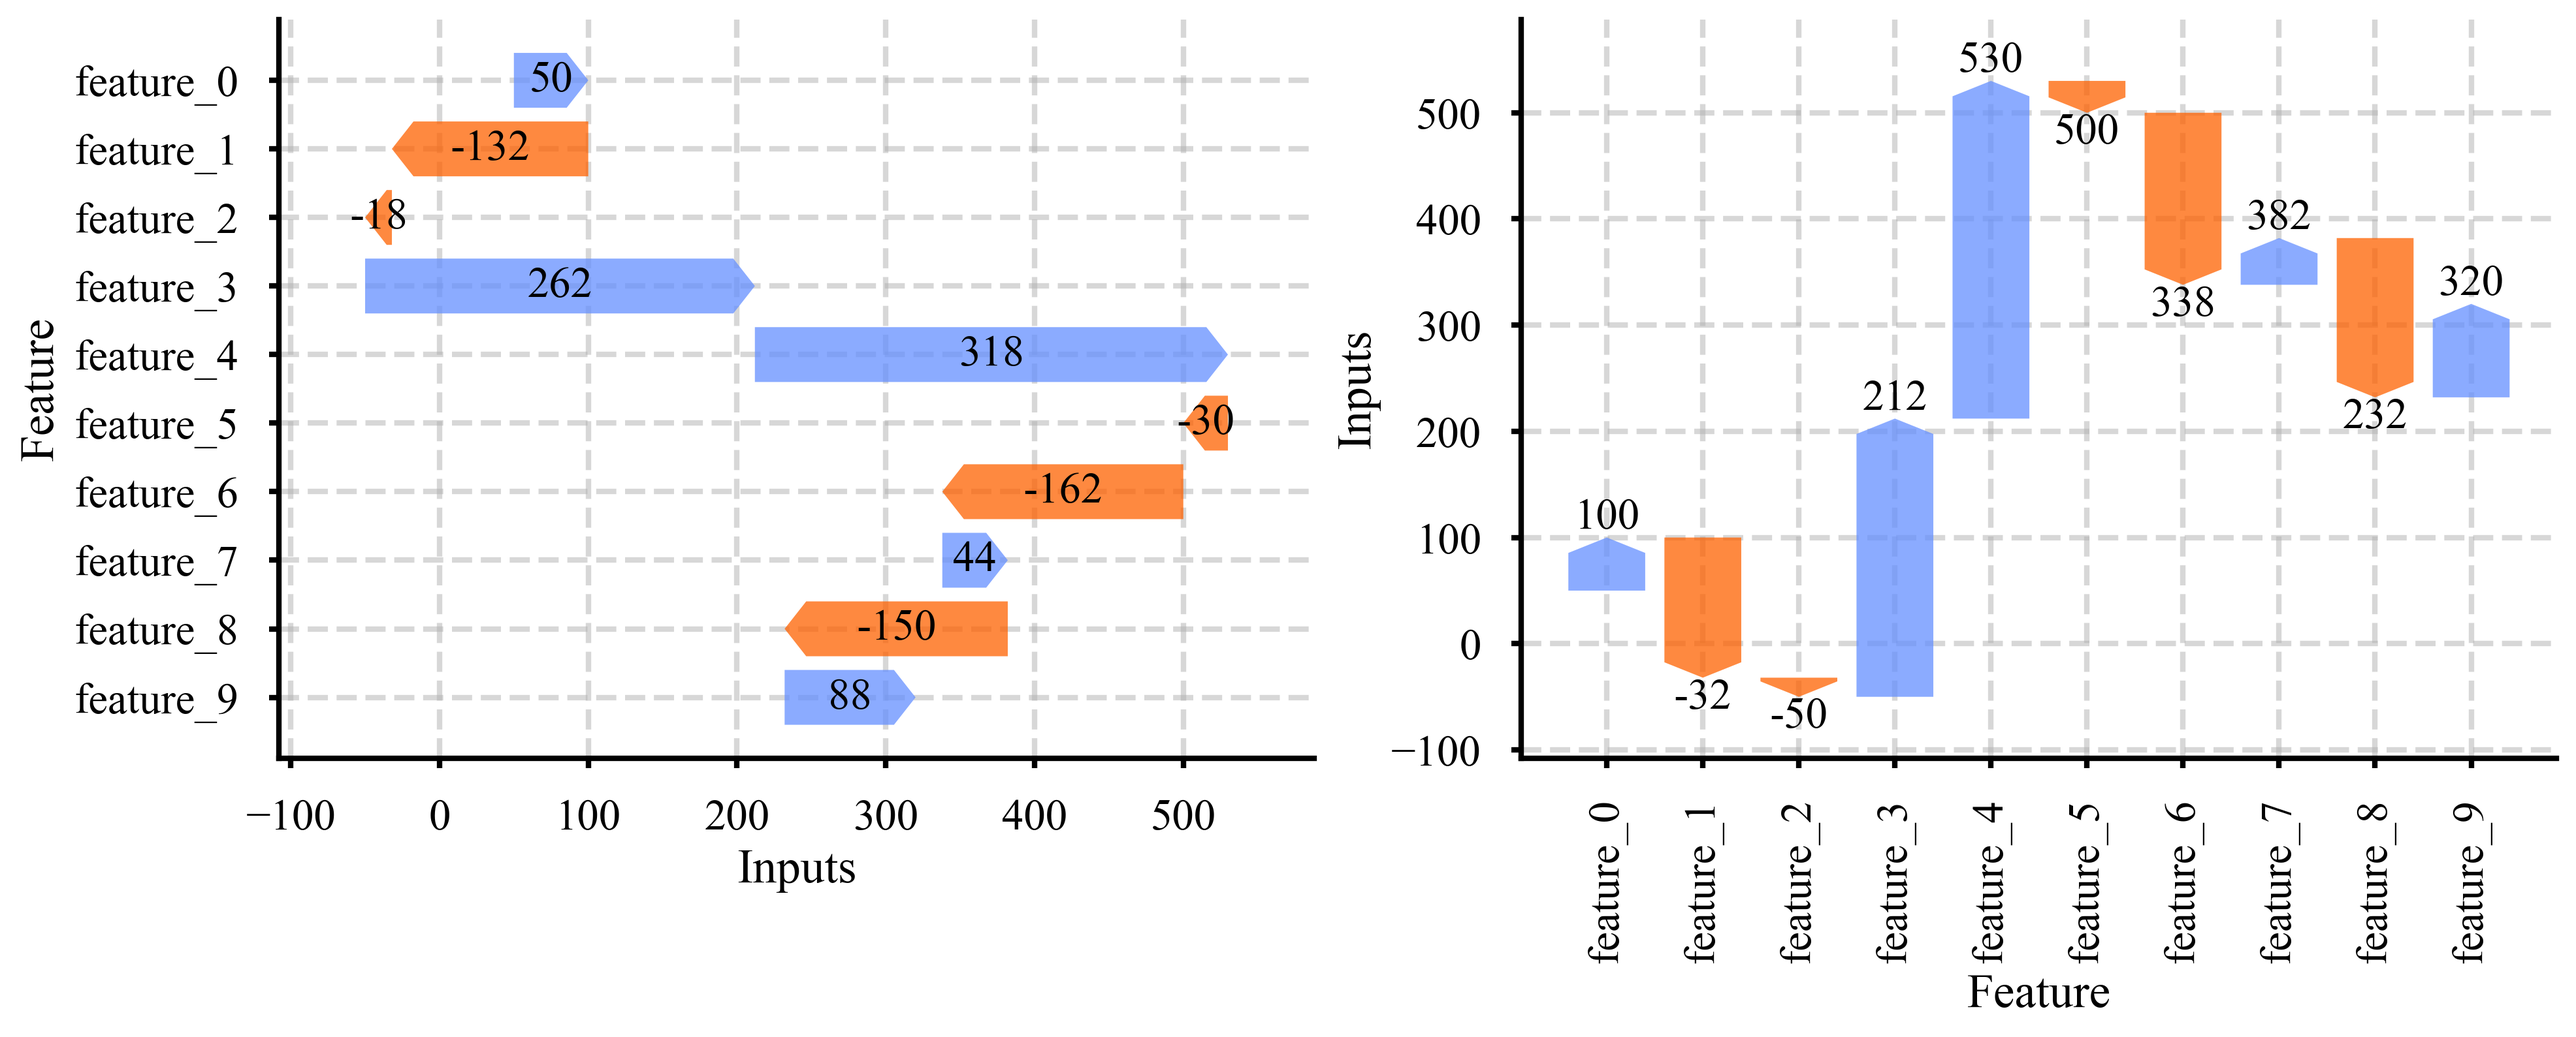
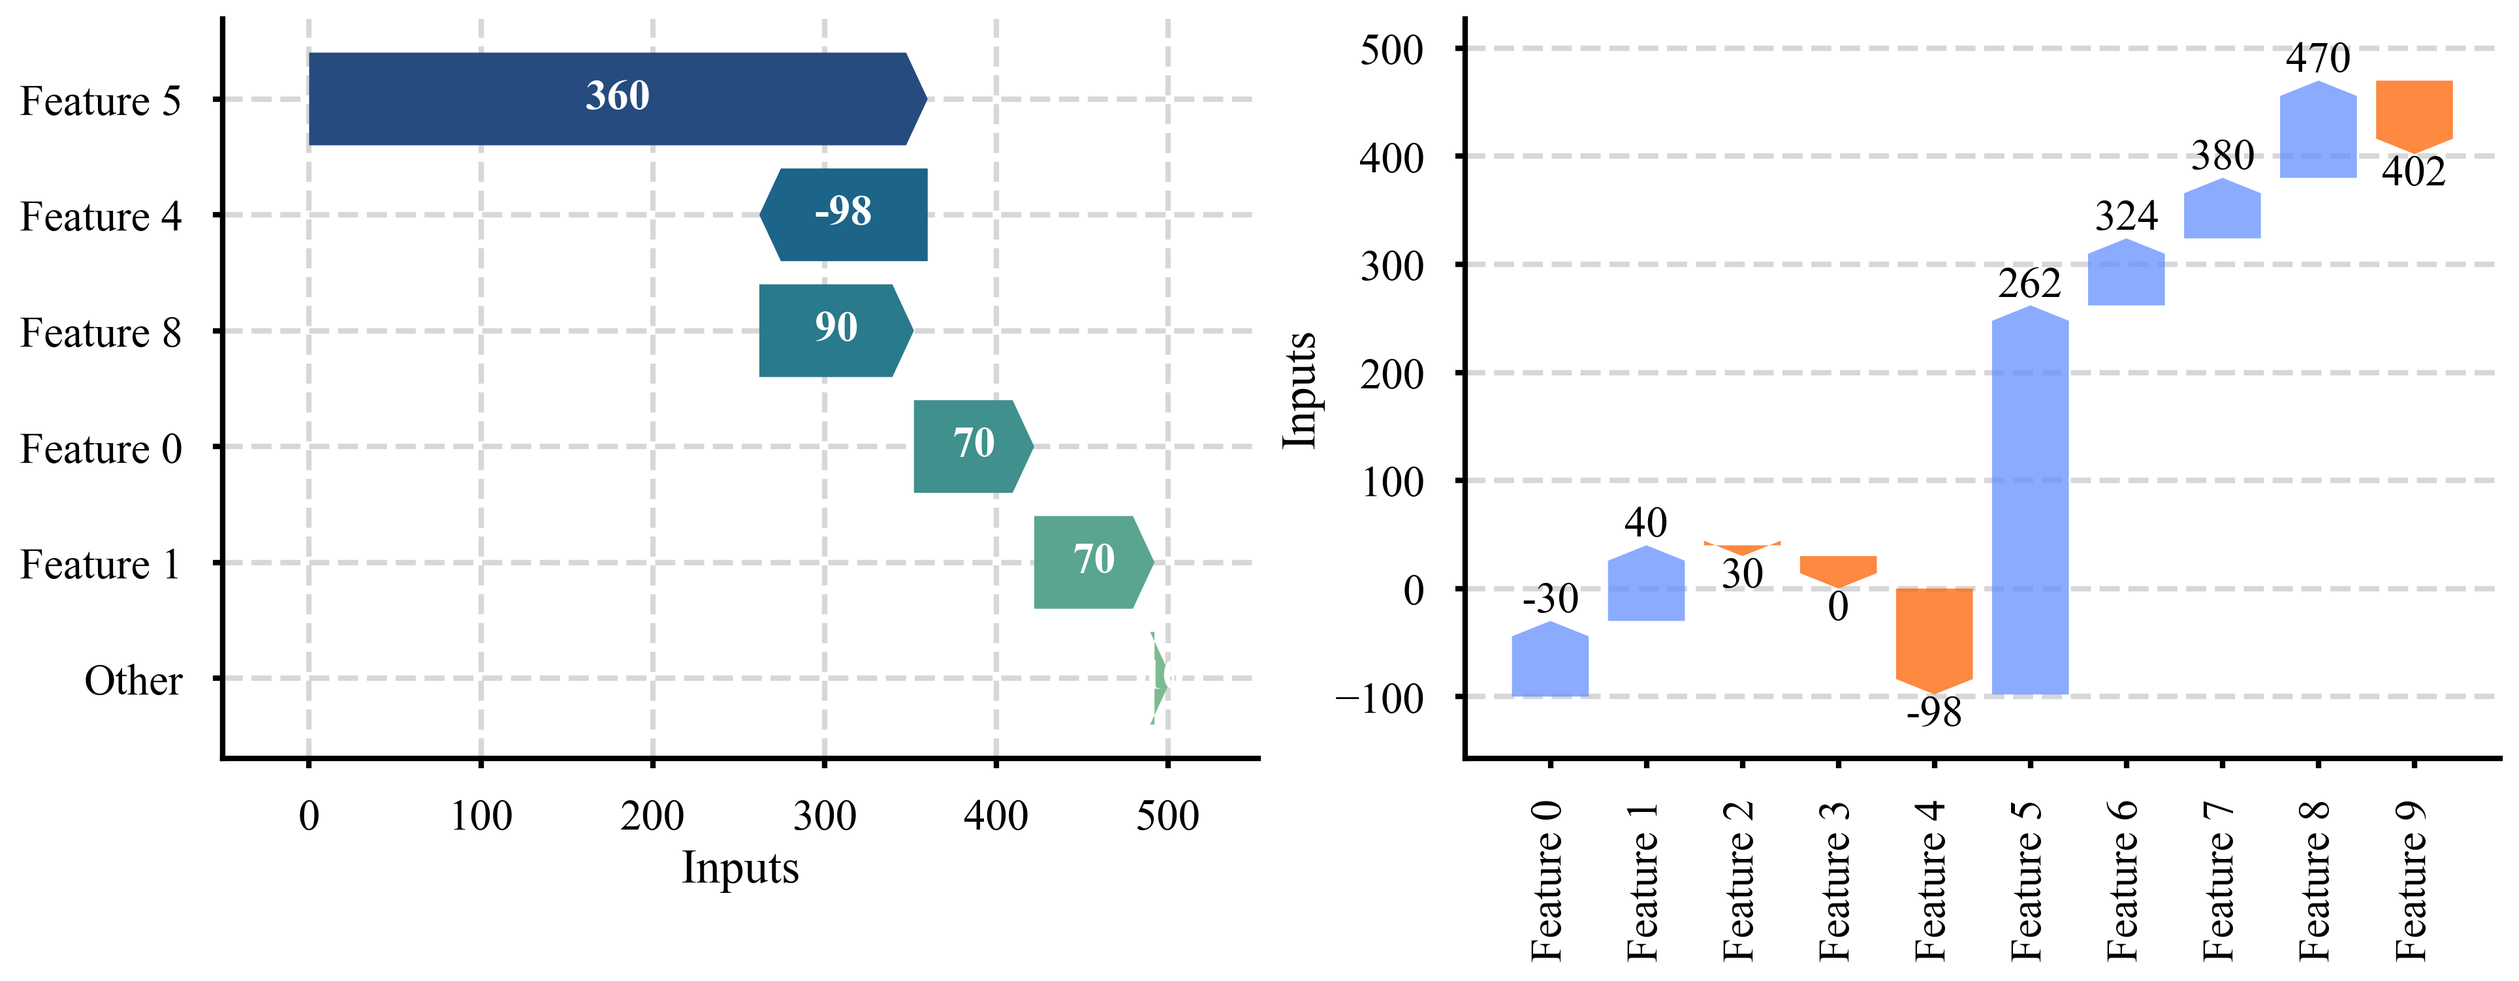
Improving Waterfall Plot and Bar Labels

diff --git a/avt/_catplot.py b/avt/_catplot.py
@@ -620,109 +620,21 @@ def timefreqheatmap(
     return ax
 
 
-def bar_labels(
-    fig: plt.figure,
-    labels: typing.Union[None, typing.List[str]] = None,
-    label_format: str = "{height}",
-    **kwargs,
-) -> plt.figure:
-    """
-    Adds labels to bars in graph.
-
-
-    Examples
-    ---------
-
-    The following will add label heights and format
-    them as a percentage:
-
-    .. code-block::
-
-        >>> g = sns.catplot(...)
-        >>> avt.bar_labels(g.figure, label_format='{height:.1%}')
-
-
-    The following will add the labels :code:`'bar1'` and :code:`'bar2'`
-    to the bars in the first axes and :code:`'bar3'`
-    and :code:`'bar4'` to the bars in the second axes.
-
-    .. code-block::
-
-        >>> g = sns.catplot(...)
-        >>> labels = [
-                ['bar1','bar2'], # first axis
-                ['bar3', 'bar4'] # second axis
-                ]
-        >>> avt.bar_labels(g.figure, labels=labels)
-
-
-    Arguments
-    ---------
-
-    - fig: plt.figure:
-        The matplotlib figure to add bar labels to.
-
-    - labels: typing.List[str]:
-        Labels to add to the bars.
-        This should be a list of lists, in which
-        the outer list acts over the axes in
-        the plot and the inner list is the labels
-        for the bars. If :code:`None`, then the bar labels
-        will be the heights of the bars.
-        Defaults to :code:`None`.
-
-    - label_format: str:
-        The format of the bar labels, used only
-        if :code:`labels=None`. This needs to contain
-        the word :code:`height`, in :code:`{}`, where the bar
-        heights will be placed.
-        Defaults to :code:`'{height}'`.
-
-    - kwargs: :
-        Keyword arguments passed to :code:`plt.bar_label`.
-        Examples could be :code:`rotation`, :code:`padding`,
-        :code:`label_type`, and :code:`fontsize`.
-
-
-    Returns
-    --------
-
-    - out: plt.figure:
-        Matplotlib figure, containing the added
-        bar labels.
-
-
-    """
-
-    for ax in fig.axes:
-        for nc, c in enumerate(ax.containers):
-            if labels is None:
-                heights = [v.get_height() for v in c]
-                l = [label_format.format(height=height) for height in heights]
-            else:
-                l = labels[nc]
-            ax.bar_label(
-                c,
-                labels=l,
-                **kwargs,
-            )
-
-    return fig
-
-
 def waterfallplot(
     data: pd.DataFrame = None,
     x: str = None,
     y: str = None,
     hue: str = None,
     order: typing.List[str] = None,
-    base: float = None,
-    horizontal: bool = False,
+    base: float = 0,
+    orient: str = "h",
     estimator: typing.Union[str, typing.Callable] = "sum",
     cmap: str = None,
+    alpha: bool = 0.75,
     positive_colour: str = "#648fff",
     negative_colour: str = "#fe6100",
     width: float = 0.8,
+    bar_label: bool = True,
     ax: plt.Axes = None,
     arrow_kwargs: typing.Dict[str, typing.Any] = {},
     bar_kwargs: typing.Dict[str, typing.Any] = {},
@@ -786,13 +698,18 @@ def waterfallplot(
         the first waterfall bar will be drawn from it.
         Defaults to :code:`None`.
 
-    - horizontal: bool:
-        Whether to plot the waterfall horizontally.
-        Defaults to :code:`False`.
+    - orient: bool:
+        Whether to plot the waterfall horizontally or vertically.
+        Options are :code:`'h'` or :code:`'v'`.
+        Defaults to :code:`h`.
 
     - estimator: typing.Union[str, typing.Callable]:
         The statistical function to use to aggregate the values.
         Defaults to :code:`'sum'`.
+
+    - alpha: str:
+        The alpha value to use for the arrows.
+        Defaults to :code:`0.75`.
 
     - cmap: str:
         The name of the colourmap to use for the bars.
@@ -812,6 +729,10 @@ def waterfallplot(
     - width: float:
         The width of the bars.
         Defaults to :code:`0.8`.
+
+    - bar_label: bool:
+        Whether to add labels to the bars.
+        Defaults to :code:`True`.
 
     - ax: matplotlib.axes.Axes:
         The axes to plot on. If not provided, a new
@@ -846,6 +767,8 @@ def waterfallplot(
     if ax is None:
         fig, ax = plt.subplots(1, 1, figsize=(8, 8))
 
+    horizontal = orient == "h"
+
     categories = y if horizontal else x
     values = x if horizontal else y
     unique_categories = data[categories].unique()
@@ -874,7 +797,6 @@ def waterfallplot(
         bar_values = np.concatenate([bar_values, bar_values_other])
 
     pos_bar = np.arange(len(bar_labels))
-    base = base if base is not None else bar_values[0]
     height = bar_values
     bottom = np.concatenate([np.array([base]), base + np.cumsum(bar_values)])[:-1]
     ends = bottom + bar_values
@@ -934,7 +856,7 @@ def waterfallplot(
         {
             "head_width": width,
             "length_includes_head": True,
-            "alpha": 0.75,
+            "alpha": alpha,
             "linewidth": 0,
             "width": width,
             "head_length": whole_range * 0.025,
@@ -977,10 +899,11 @@ def waterfallplot(
         },
     )
 
-    ax.bar_label(
-        bars,
-        **bar_label_kwargs,
-    )
+    if bar_label:
+        ax.bar_label(
+            bars,
+            **bar_label_kwargs,
+        )
 
     if horizontal:
         ax.set_yticks(pos_bar)
@@ -992,4 +915,106 @@ def waterfallplot(
     ax.set_ylabel(y)
     ax.set_xlabel(x)
 
+    ax.grid(False, axis="y" if horizontal else "x")
+
     return ax
+
+
+def bar_labels(
+    obj: plt.figure,
+    labels: typing.Union[None, typing.List[str]] = None,
+    label_format: str = "{height}",
+    **kwargs,
+) -> plt.figure:
+    """
+    Adds labels to bars in graph.
+
+
+    Examples
+    ---------
+
+    The following will add label heights and format
+    them as a percentage:
+
+    .. code-block::
+
+        >>> g = sns.catplot(...)
+        >>> avt.bar_labels(g.figure, label_format='{height:.1%}')
+
+
+    The following will add the labels :code:`'bar1'` and :code:`'bar2'`
+    to the bars in the first axes and :code:`'bar3'`
+    and :code:`'bar4'` to the bars in the second axes.
+
+    .. code-block::
+
+        >>> g = sns.catplot(...)
+        >>> labels = [
+                ['bar1','bar2'], # first axis
+                ['bar3', 'bar4'] # second axis
+                ]
+        >>> avt.bar_labels(g.figure, labels=labels)
+
+
+    Arguments
+    ---------
+
+    - obj: plt.figure or plt.Axes:
+        The matplotlib figure or axes to add bar labels to.
+
+    - labels: typing.List[str]:
+        Labels to add to the bars.
+        This should be a list of lists, in which
+        the outer list acts over the axes in
+        the plot and the inner list is the labels
+        for the bars. If :code:`None`, then the bar labels
+        will be the heights of the bars.
+        Defaults to :code:`None`.
+
+    - label_format: str:
+        The format of the bar labels, used only
+        if :code:`labels=None`. This needs to contain
+        the word :code:`height`, in :code:`{}`, where the bar
+        heights will be placed.
+        Defaults to :code:`'{height}'`.
+
+    - kwargs: :
+        Keyword arguments passed to :code:`plt.bar_label`.
+        Examples could be :code:`rotation`, :code:`padding`,
+        :code:`label_type`, and :code:`fontsize`.
+
+
+    Returns
+    --------
+
+    - out: plt.figure:
+        Matplotlib figure, containing the added
+        bar labels.
+
+
+    """
+
+    if isinstance(obj, plt.Axes):
+        axes_list = [obj]
+
+    elif isinstance(obj, plt.figure):
+        axes_list = obj.axes
+
+    else:
+        raise TypeError("obj must be a matplotlib figure or axes")
+
+    for ax in axes_list:
+        for nc, c in enumerate(ax.containers):
+            if labels is None:
+                # heights = [v.get_height() for v in c]
+                # l = [label_format.format(height=height) for height in heights]
+                l = None
+            else:
+                l = labels[nc]
+            ax.bar_label(
+                c,
+                labels=l,
+                **kwargs,
+            )
+
+    return obj
